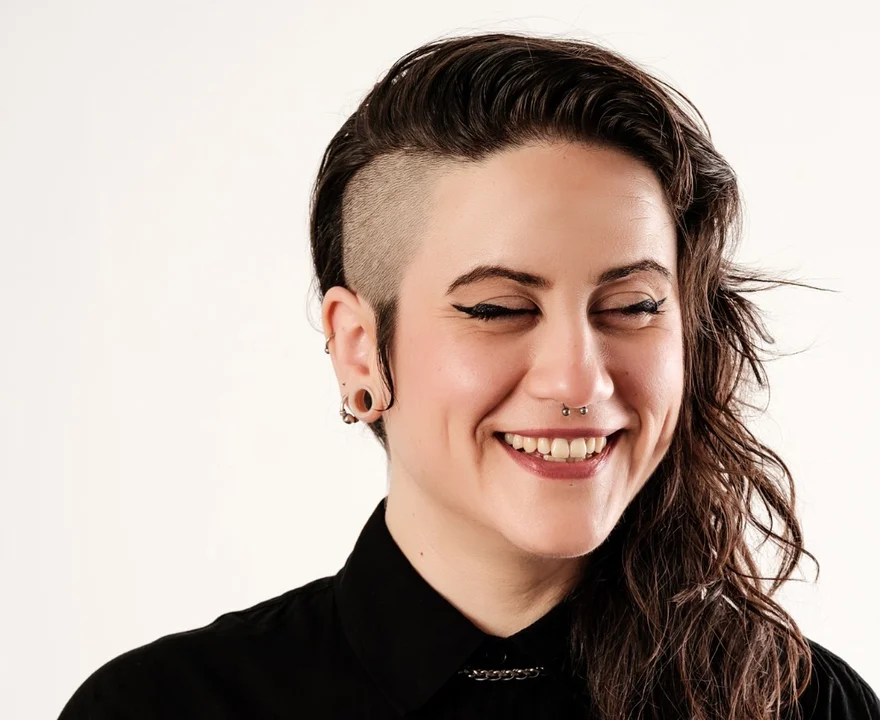
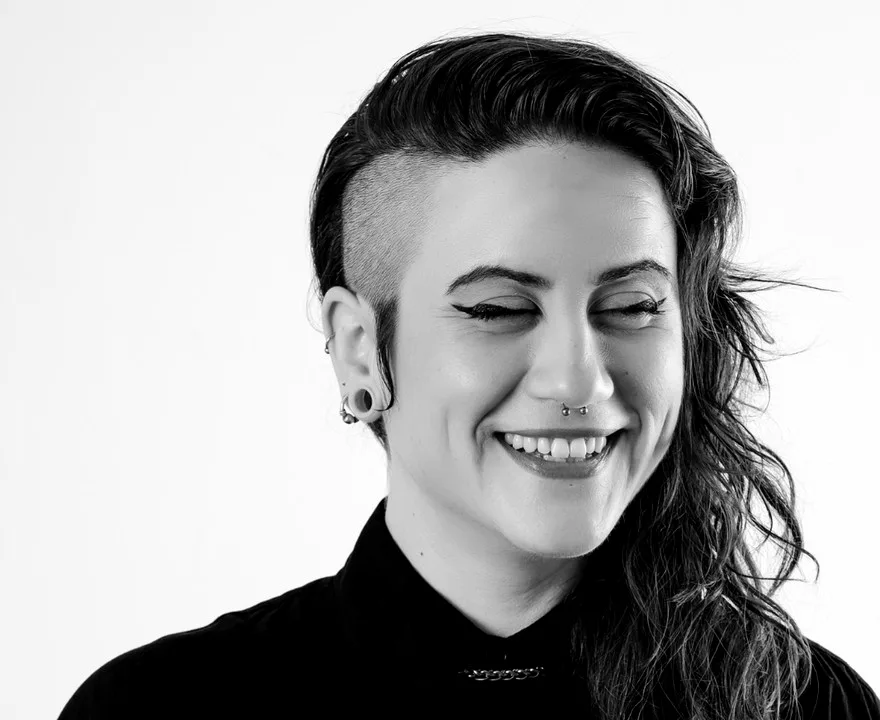
Sobre mí: intro con retrato en blanco y negro, RR. HH., trayectoria y Lo que me recarga
Botones a partes iguales en móvil sin partir la etiqueta.

Claude-Session: https://claude.ai/code/session_01JxoC1QRwkJfxraGWMNmyRw

diff --git a/sobre-mi/index.html b/sobre-mi/index.html
@@ -1,0 +1,190 @@
+<!doctype html>
+<html lang="es">
+  <head>
+    <meta charset="utf-8" />
+    <meta name="viewport" content="width=device-width, initial-scale=1" />
+    <title>Sobre mí · Lili Rubio</title>
+    <meta name="description" content="Junior en UX/UI. No tan junior entendiendo a personas. Diseño de producto en Sevilla, con más de cinco años de experiencia previa en recursos humanos." />
+    <link rel="canonical" href="https://lilirubio.es/sobre-mi" />
+    <link rel="preload" href="/assets/fonts/Bevellier-Medium.woff2" as="font" type="font/woff2" crossorigin />
+    <link rel="preload" href="/assets/fonts/Switzer-Regular.woff2" as="font" type="font/woff2" crossorigin />
+    <link rel="stylesheet" href="/assets/css/fonts.css" />
+    <link rel="stylesheet" href="/assets/css/tokens.css" />
+    <link rel="stylesheet" href="/assets/css/typography.css" />
+    <link rel="stylesheet" href="/assets/css/base.css" />
+    <link rel="stylesheet" href="/assets/css/components.css" />
+    <link rel="stylesheet" href="/assets/css/home.css" />
+    <link rel="stylesheet" href="/assets/css/about.css" />
+    <script src="/assets/js/main.js" defer></script>
+  </head>
+  <body>
+    <a class="skip-link" href="#contenido">Saltar al contenido</a>
+
+    <header class="site-header">
+      <nav class="container nav-bar" aria-label="Principal">
+        <a class="nav-bar__logo" href="/" aria-label="Lili Rubio · Inicio">
+          <svg viewBox="0 0 44 48" aria-hidden="true"><rect width="12" height="48" rx="4.8" fill="currentColor"/><rect x="16.8" width="12" height="48" rx="4.8" fill="currentColor"/><rect x="43.2" width="12" height="26.4" rx="4.8" transform="rotate(90 43.2 0)" fill="currentColor"/></svg>
+        </a>
+        <ul class="nav-bar__items">
+          <li><a class="nav-item" href="/#trabajo">Trabajo</a></li>
+          <li><a class="nav-item" href="/sobre-mi" aria-current="page">Sobre mí</a></li>
+          <li><a class="nav-item" href="#contacto">Contacto</a></li>
+        </ul>
+      </nav>
+    </header>
+
+    <main id="contenido">
+      <!-- 01 · Intro -->
+      <section class="section" aria-labelledby="sobre-mi-titulo">
+        <div class="container about-intro">
+          <div class="about-intro__text">
+            <p class="eyebrow eyebrow--muted">Sobre mí</p>
+            <h1 id="sobre-mi-titulo" class="h1">Junior en UX/UI.<br />No tan junior <span class="highlight nowrap">entendiendo a personas</span>.</h1>
+            <p class="body-lead about-intro__lead">Diseño productos digitales con mucha información, estados y reglas, y convierto esa complejidad en experiencias que se entienden a la primera. Me interesa sobre todo lo que pasa antes de la pantalla: entender para quién diseño, ordenar el contenido y decidir con criterio.</p>
+            <p class="body-md about-intro__note">Vivo en Sevilla y busco un equipo para trabajar en presencial, híbrido o remoto.</p>
+            <div class="about-intro__actions">
+              <a class="button button--primary" href="mailto:lilirubio.design@gmail.com?subject=Hola%20Lili">
+                Escríbeme
+                <svg class="icon" viewBox="0 0 24 24" aria-hidden="true"><path fill-rule="evenodd" clip-rule="evenodd" d="M1.875 12c0-.298.119-.585.33-.795.21-.211.497-.33.795-.33h15.285l-4.08-4.08a1.125 1.125 0 0 1 1.59-1.59l6 6a1.125 1.125 0 0 1 0 1.59l-6 6a1.125 1.125 0 0 1-1.59-1.59l4.08-4.08H3c-.298 0-.585-.119-.795-.33A1.125 1.125 0 0 1 1.875 12Z"/></svg>
+              </a>
+              <a class="button button--secondary" href="/assets/cv/lili-rubio-cv.pdf" download>
+                Descargar CV
+                <svg class="icon" viewBox="0 0 24 24" aria-hidden="true"><path fill-rule="evenodd" clip-rule="evenodd" d="M12 1.875c.298 0 .585.119.796.33.21.21.329.497.329.795v15.285l4.08-4.08a1.125 1.125 0 0 1 1.59 1.59l-6 6a1.125 1.125 0 0 1-1.59 0l-6-6a1.125 1.125 0 0 1 1.59-1.59l4.08 4.08V3c0-.298.119-.585.33-.795.21-.211.497-.33.795-.33Z"/></svg>
+              </a>
+            </div>
+          </div>
+          <figure class="about-intro__portrait">
+            <img src="/assets/img/retrato.webp" srcset="/assets/img/retrato-440.webp 440w, /assets/img/retrato.webp 880w" sizes="(min-width: 960px) 440px, calc(100vw - 32px)" width="880" height="720" alt="Lili Rubio sonriendo con los ojos cerrados, en blanco y negro." fetchpriority="high" />
+          </figure>
+        </div>
+      </section>
+
+      <!-- 02 · Lo que traigo de recursos humanos -->
+      <section class="section section--frame" aria-labelledby="rrhh-titulo">
+        <div class="container hr">
+          <div class="split">
+            <div class="split__head">
+              <p class="eyebrow eyebrow--muted">Antes de diseñar</p>
+              <h2 id="rrhh-titulo" class="h2">Lo que traigo de recursos humanos</h2>
+            </div>
+            <p class="split__body body-md hr__intro">Durante más de cinco años dirigí un departamento de recursos humanos. Necesitaba darle salida a mi vena creativa y me formé en diseño UX/UI, gráfico y web. Pronto descubrí que no empezaba de cero.</p>
+          </div>
+          <ol class="contributions">
+            <li class="contribution">
+              <span class="label-md contribution__number" aria-hidden="true">01</span>
+              <h3 class="h3 contribution__title"><span class="highlight">Escuchar</span> antes de decidir</h3>
+              <p class="body-md contribution__text">Entender qué necesita cada persona antes de proponer una solución.</p>
+            </li>
+            <li class="contribution">
+              <span class="label-md contribution__number" aria-hidden="true">02</span>
+              <h3 class="h3 contribution__title"><span class="highlight">Equilibrar</span> intereses que no siempre encajan</h3>
+              <p class="body-md contribution__text">Trabajar con necesidades distintas (personas, negocio o normativa) y buscar un punto de equilibrio.</p>
+            </li>
+            <li class="contribution">
+              <span class="label-md contribution__number" aria-hidden="true">03</span>
+              <h3 class="h3 contribution__title"><span class="highlight">Adaptar</span> procesos al contexto</h3>
+              <p class="body-md contribution__text">No todo funciona igual para todas las personas ni para todos los equipos. Ajustar procesos, comunicación y formas de trabajo según la situación.</p>
+            </li>
+            <li class="contribution">
+              <span class="label-md contribution__number" aria-hidden="true">04</span>
+              <h3 class="h3 contribution__title"><span class="highlight">Explicar</span> el porqué</h3>
+              <p class="body-md contribution__text">Tomar decisiones con argumentos y comunicarlas de forma que puedan entenderse, cuestionarse y mejorarse.</p>
+            </li>
+          </ol>
+        </div>
+      </section>
+
+      <!-- 03 · Trayectoria -->
+      <section class="section" aria-labelledby="trayectoria-titulo">
+        <div class="container split">
+          <div class="split__head">
+            <p class="eyebrow eyebrow--muted">Trayectoria</p>
+            <h2 id="trayectoria-titulo" class="h2">Cómo he llegado hasta aquí</h2>
+          </div>
+          <ol class="split__body timeline">
+            <li class="timeline__item timeline__item--current">
+              <span class="timeline__dot" aria-hidden="true"></span>
+              <div class="timeline__body">
+                <p class="label-sm timeline__date">oct 2025 – may 2026</p>
+                <h3 class="h4 timeline__title">UX/UI Designer · Green Slope</h3>
+                <p class="body-sm timeline__text">Diseño de producto y design system de NextCaddy.</p>
+              </div>
+            </li>
+            <li class="timeline__item timeline__item--current">
+              <span class="timeline__dot" aria-hidden="true"></span>
+              <div class="timeline__body">
+                <p class="label-sm timeline__date">2024 – 2025</p>
+                <h3 class="h4 timeline__title">Máster profesional en diseño · Escuela CEI</h3>
+                <p class="body-sm timeline__text">UX/UI, diseño gráfico y web.</p>
+                <p class="body-sm timeline__award">
+                  <svg viewBox="0 0 24 24" aria-hidden="true"><path d="M12 1.5l3.09 6.26 6.91 1-5 4.87 1.18 6.88L12 17.27l-6.18 3.24L7 13.63 2 8.76l6.91-1L12 1.5Z"/></svg>
+                  Sobresaliente en UX/UI y diseño web
+                </p>
+              </div>
+            </li>
+            <li class="timeline__item">
+              <span class="timeline__dot" aria-hidden="true"></span>
+              <div class="timeline__body">
+                <p class="label-sm timeline__date">oct 2018 – abr 2024</p>
+                <h3 class="h4 timeline__title">Responsable de recursos humanos · Grupo Área</h3>
+                <p class="body-sm timeline__text">Más de cinco años dirigiendo el departamento.</p>
+              </div>
+            </li>
+            <li class="timeline__item">
+              <span class="timeline__dot" aria-hidden="true"></span>
+              <div class="timeline__body">
+                <p class="label-sm timeline__date">2016 – 2018</p>
+                <h3 class="h4 timeline__title">Ciclo superior en Administración y Finanzas</h3>
+              </div>
+            </li>
+            <li class="timeline__item">
+              <span class="timeline__dot" aria-hidden="true"></span>
+              <div class="timeline__body">
+                <p class="label-sm timeline__date">2012 – 2016</p>
+                <h3 class="h4 timeline__title">Grado en Relaciones Laborales y Recursos Humanos</h3>
+              </div>
+            </li>
+          </ol>
+        </div>
+      </section>
+
+      <!-- 04 · Lo que me recarga -->
+      <section class="section section--frame" aria-labelledby="recarga-titulo">
+        <div class="container split">
+          <div class="split__head">
+            <p class="eyebrow eyebrow--muted">Fuera de la pantalla</p>
+            <h2 id="recarga-titulo" class="h2">Lo que me <span class="gradient-underline">recarga</span></h2>
+          </div>
+          <div class="split__body recharge">
+            <p class="body-md recharge__text">Fuera del trabajo sigo bastante cerca de lo creativo: dibujo, pinto, canto y siempre hay algún proyecto gráfico rondando. Me encantan los juegos de mesa, cocinar y comer bien; probar sitios, recetas y sabores nuevos suele entrar fácilmente en cualquier plan. También tengo debilidad por las estéticas oscuras y por Halloween. ¿Mi película favorita? Sin duda: <em>Pesadilla antes de Navidad</em>.</p>
+            <ul class="stickers" aria-hidden="true">
+              <li class="sticker sticker--gl"><svg viewBox="0 0 24 24"><path d="M18.822 5.052A9.75 9.75 0 0 0 12 2.25h-.1A9.75 9.75 0 0 0 2.25 12c0 4.031 2.492 7.412 6.503 8.828A3 3 0 0 0 12.75 18a1.5 1.5 0 0 1 1.5-1.5h4.332a2.987 2.987 0 0 0 2.925-2.333 9.79 9.79 0 0 0 .243-2.25 9.69 9.69 0 0 0-2.928-6.865ZM7.875 15.75a1.125 1.125 0 1 1 0-2.25 1.125 1.125 0 0 1 0 2.25Zm0-5.25a1.125 1.125 0 1 1 0-2.25 1.125 1.125 0 0 1 0 2.25ZM12 8.25A1.125 1.125 0 1 1 12 6a1.125 1.125 0 0 1 0 2.25Zm4.125 2.25a1.125 1.125 0 1 1 0-2.25 1.125 1.125 0 0 1 0 2.25Z"/></svg></li>
+              <li class="sticker sticker--lo"><svg viewBox="0 0 24 24"><path d="M19.961 1.66a.75.75 0 0 0-.643-.137l-12 3a.75.75 0 0 0-.568.727v10.322a3.375 3.375 0 1 0 1.5 2.803V9.586l10.5-2.625v5.611a3.375 3.375 0 1 0 1.5 2.803V2.25a.75.75 0 0 0-.289-.59Z"/></svg></li>
+              <li class="sticker sticker--og"><svg viewBox="0 0 24 24"><path d="M18 3H6a3 3 0 0 0-3 3v12a3 3 0 0 0 3 3h12a3 3 0 0 0 3-3V6a3 3 0 0 0-3-3ZM8.625 16.5a1.125 1.125 0 1 1 0-2.25 1.125 1.125 0 0 1 0 2.25Zm0-6.75a1.125 1.125 0 1 1 0-2.25 1.125 1.125 0 0 1 0 2.25ZM12 13.125a1.125 1.125 0 1 1 0-2.25 1.125 1.125 0 0 1 0 2.25Zm3.375 3.375a1.125 1.125 0 1 1 0-2.25 1.125 1.125 0 0 1 0 2.25Zm0-6.75a1.125 1.125 0 1 1 0-2.25 1.125 1.125 0 0 1 0 2.25Z"/></svg></li>
+              <li class="sticker sticker--gl"><svg viewBox="0 0 24 24"><path d="M8.25 4.5v-3a.75.75 0 0 1 1.5 0v3a.75.75 0 0 1-1.5 0ZM12 5.25a.75.75 0 0 0 .75-.75v-3a.75.75 0 0 0-1.5 0v3c0 .414.336.75.75.75Zm3 0a.75.75 0 0 0 .75-.75v-3a.75.75 0 0 0-1.5 0v3c0 .414.336.75.75.75Zm8.85 3.3a.75.75 0 0 0-1.05-.15L21 9.75V7.5a.75.75 0 0 0-.75-.75H3.75A.75.75 0 0 0 3 7.5v2.25L1.2 8.4a.75.75 0 1 0-.9 1.2L3 11.625v5.625a3 3 0 0 0 3 3h12a3 3 0 0 0 3-3v-5.625l2.7-2.025a.75.75 0 0 0 .15-1.05Z"/></svg></li>
+              <li class="sticker sticker--lo"><svg viewBox="0 0 24 24"><path d="M12 1.5c-5.377 0-9.75 4.206-9.75 9.375 0 3.197 1.713 6.188 4.5 7.901v1.474a1.5 1.5 0 0 0 1.5 1.5H9a.375.375 0 0 0 .375-.375v-2.6a.766.766 0 0 1 .7-.773.75.75 0 0 1 .8.75v2.627c0 .207.168.375.375.375h1.5a.375.375 0 0 0 .375-.375v-2.602a.766.766 0 0 1 .7-.773.75.75 0 0 1 .8.75v2.625c0 .207.168.375.375.375h.75a1.5 1.5 0 0 0 1.5-1.5v-1.476c2.787-1.713 4.5-4.704 4.5-7.9C21.75 5.705 17.377 1.5 12 1.5Zm-3.375 12.75a1.875 1.875 0 1 1 0-3.75 1.875 1.875 0 0 1 0 3.75Zm6.75 0a1.875 1.875 0 1 1 0-3.75 1.875 1.875 0 0 1 0 3.75Z"/></svg></li>
+            </ul>
+          </div>
+        </div>
+      </section>
+    </main>
+
+    <footer id="contacto" class="site-footer">
+      <div class="container footer">
+        <h2 class="h2 footer__title">Disponible para una charla.</h2>
+        <div class="footer__side">
+          <div class="footer__contact">
+            <a class="contact-button" href="mailto:lilirubio.design@gmail.com" data-copy="lilirubio.design@gmail.com">
+              <svg class="icon" viewBox="0 0 24 24" aria-hidden="true"><path fill-rule="evenodd" clip-rule="evenodd" d="M5.25 6h13.5c.375 0 .728.09 1.038.254L13.125 11.25a1.875 1.875 0 0 1-2.25 0L4.212 6.254C4.522 6.09 4.877 6 5.25 6Zm-2.249 2.157L3 8.25v7.5A2.25 2.25 0 0 0 5.25 18h13.5A2.25 2.25 0 0 0 21 15.75v-7.5l-.002-.093-6.523 4.893a4.125 4.125 0 0 1-4.95 0L3.001 8.157ZM.75 8.25a4.5 4.5 0 0 1 4.5-4.5h13.5a4.5 4.5 0 0 1 4.5 4.5v7.5a4.5 4.5 0 0 1-4.5 4.5H5.25a4.5 4.5 0 0 1-4.5-4.5v-7.5Z"/></svg>
+              <span>lilirubio.design@gmail.com</span>
+            </a>
+            <a class="icon-button" href="https://www.linkedin.com/" target="_blank" rel="noopener" aria-label="LinkedIn de Lili Rubio (se abre en otra pestaña)">
+              <svg class="icon" viewBox="0 0 24 24" aria-hidden="true"><path d="M13.875 9.525a3.375 3.375 0 0 1 3.375 3.375v3.6a1.125 1.125 0 0 1-2.25 0v-3.6a1.125 1.125 0 0 0-2.25 0v3.6a1.125 1.125 0 0 1-2.25 0v-5.625a1.125 1.125 0 0 1 1.75-.936 3.36 3.36 0 0 1 1.625-.414Zm-5.994.225c.62 0 1.125.504 1.125 1.125V16.5a1.125 1.125 0 0 1-2.25 0v-5.625c0-.62.504-1.125 1.125-1.125ZM7.875 6a1.5 1.5 0 1 1 0 3.002A1.5 1.5 0 0 1 7.875 6Z"/><path fill-rule="evenodd" clip-rule="evenodd" d="M17.25 2.25a4.5 4.5 0 0 1 4.5 4.5v10.5a4.5 4.5 0 0 1-4.269 4.496l-.231.006H6.75l-.231-.006a4.5 4.5 0 0 1-4.263-4.263L2.25 17.25V6.75a4.5 4.5 0 0 1 4.5-4.5h10.5ZM6.75 4.5A2.25 2.25 0 0 0 4.5 6.75v10.5a2.25 2.25 0 0 0 2.25 2.25h10.5a2.25 2.25 0 0 0 2.25-2.25V6.75a2.25 2.25 0 0 0-2.25-2.25H6.75Z"/></svg>
+            </a>
+          </div>
+          <p class="copy-status" role="status" aria-live="polite"></p>
+        </div>
+      </div>
+    </footer>
+  </body>
+</html>

diff --git a/assets/css/about.css b/assets/css/about.css
@@ -1,0 +1,101 @@
+/* Sobre mí (hi-fi `sobre-mi-desktop` / `sobre-mi-mobile`) */
+
+/* Fila cabecera + contenido: apilada en móvil, 440 + 680 en desktop */
+.split { display: flex; flex-direction: column; gap: var(--spacing-section-sm); }
+.split__head { display: flex; flex-direction: column; gap: var(--spacing-stack-sm); }
+@media (min-width: 960px) {
+  .split { flex-direction: row; gap: var(--space-900); }
+  .split__head { flex: 0 0 440px; }
+  .split__body { flex: 1 1 0; min-width: 0; }
+}
+
+/* ── Intro ── */
+.about-intro { display: flex; flex-direction: column; gap: var(--spacing-section-md); }
+.about-intro__text { display: flex; flex-direction: column; align-items: flex-start; gap: var(--spacing-stack-lg); }
+.about-intro__lead { color: var(--text-body); }
+.about-intro__note { color: var(--text-muted); }
+.about-intro__actions { display: flex; gap: var(--spacing-inline-md); width: 100%; }
+.about-intro__actions .button { flex: 1 1 0; }
+.about-intro__portrait img {
+  width: 100%;
+  height: auto;
+  aspect-ratio: 440 / 360;
+  object-fit: cover;
+  border-radius: var(--corner-radius-lg);
+  background: var(--bg-frame);
+}
+@media (min-width: 960px) {
+  .about-intro { flex-direction: row; align-items: center; gap: var(--space-900); }
+  .about-intro__text { flex: 1 1 0; }
+  .about-intro__actions { width: auto; }
+  .about-intro__actions .button { flex: none; }
+  .about-intro__portrait { flex: 0 0 440px; }
+}
+
+/* ── Lo que traigo de recursos humanos ── */
+.hr { display: flex; flex-direction: column; gap: var(--spacing-section-sm); }
+.hr__intro { color: var(--text-body); }
+.contributions { list-style: none; margin: 0; padding: 0; }
+.contribution {
+  display: flex;
+  flex-direction: column;
+  gap: var(--spacing-stack-xs);
+  padding-block: var(--spacing-inset-lg);
+}
+.contribution__number { color: var(--text-muted); }
+.contribution__title { color: var(--text-body); }
+.contribution__text { color: var(--text-body); }
+@media (min-width: 960px) {
+  .hr { gap: 40px; } /* fuera de escala, como en Figma */
+  .contribution { flex-direction: row; gap: 40px; padding-block: 36px; }
+  .contribution__number { flex: 0 0 40px; }
+  .contribution__title { flex: 0 0 400px; }
+  .contribution__text { flex: 1 1 0; }
+}
+
+/* ── Trayectoria ── */
+.timeline { list-style: none; margin: 0; padding: 0; }
+.timeline__item { display: flex; gap: var(--spacing-inline-md); }
+.timeline__item + .timeline__item { padding-top: var(--spacing-stack-xl); }
+.timeline__dot {
+  flex: none;
+  width: 12px;
+  height: 12px;
+  margin-top: 2px;
+  border-radius: 50%;
+  background: var(--border-strong);
+}
+.timeline__item--current .timeline__dot { background: var(--bg-inverse); }
+.timeline__body { display: flex; flex-direction: column; gap: 4px; }
+.timeline__date { color: var(--text-muted); }
+.timeline__title { color: var(--text-muted); }
+.timeline__item--current .timeline__title { color: var(--text-primary); }
+.timeline__text { color: var(--text-body); }
+.timeline__award { display: flex; align-items: center; gap: 4px; padding-top: 4px; color: var(--text-body); }
+.timeline__award svg { width: 10px; height: 10px; fill: currentColor; flex: none; }
+
+/* ── Lo que me recarga ── */
+.gradient-underline {
+  background-image: linear-gradient(90deg, var(--color-accent-green), var(--color-accent-lavender), var(--color-accent-orange));
+  background-repeat: no-repeat;
+  background-size: 100% 0.32em;
+  background-position: 0 88%;
+}
+.recharge { display: flex; flex-direction: column; gap: var(--spacing-stack-xl); }
+.recharge__text { color: var(--text-body); }
+.stickers { display: flex; flex-wrap: wrap; gap: var(--spacing-inline-sm); list-style: none; margin: 0; padding: 0; }
+.sticker {
+  display: grid;
+  place-items: center;
+  width: 60px;
+  height: 60px;
+  border: 3px solid transparent;
+  border-radius: 50%;
+  background:
+    linear-gradient(var(--bg-surface), var(--bg-surface)) padding-box,
+    linear-gradient(135deg, var(--from), var(--to)) border-box;
+}
+.sticker svg { width: 28px; height: 28px; fill: var(--text-primary); }
+.sticker--gl { --from: var(--color-accent-green); --to: var(--color-accent-lavender); }
+.sticker--lo { --from: var(--color-accent-lavender); --to: var(--color-accent-orange); }
+.sticker--og { --from: var(--color-accent-orange); --to: var(--color-accent-green); }

diff --git a/assets/css/components.css b/assets/css/components.css
@@ -205,3 +205,10 @@
   .project-card__media { order: 0; flex: 1 1 auto; min-width: 0; }
   .project-card .browser-frame__screen { aspect-ratio: 672 / 400; }
 }
+
+/* Botones a partes iguales en móvil: margen interior menor para que la etiqueta no se parta */
+.button { white-space: nowrap; }
+@media (max-width: 959px) {
+  .hero__actions .button,
+  .about-intro__actions .button { padding-inline: var(--spacing-inset-md); }
+}
